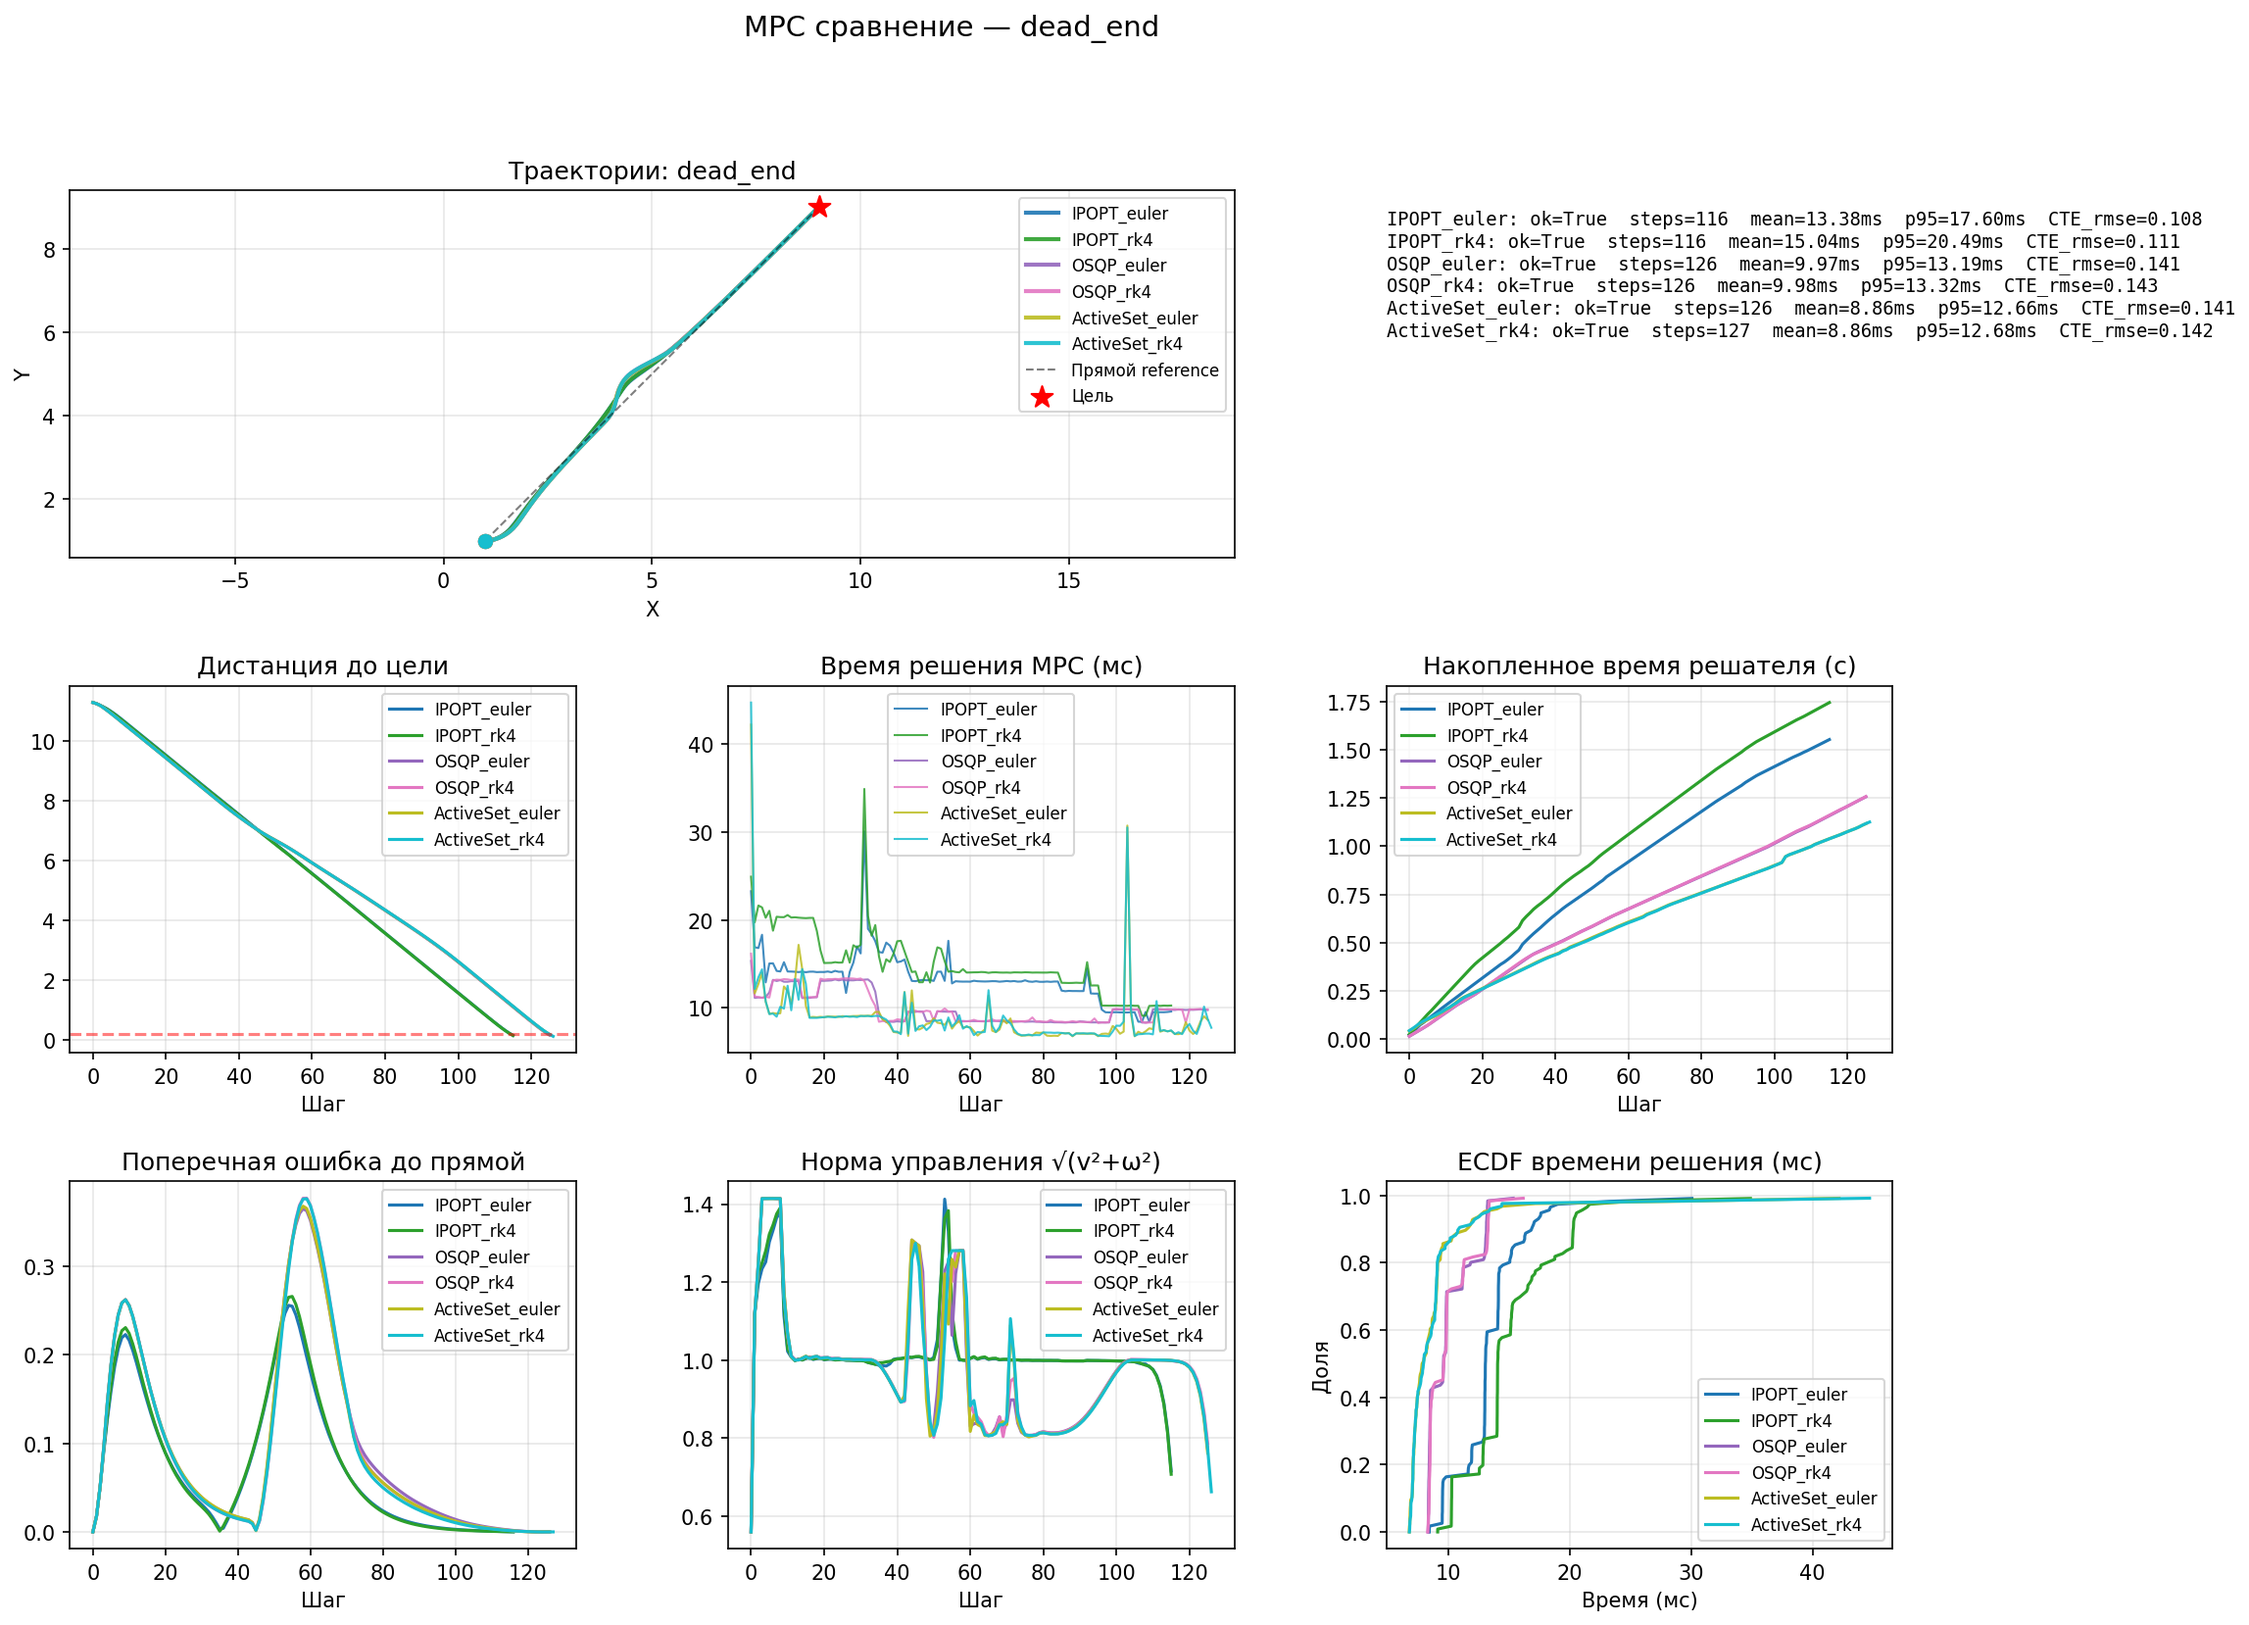
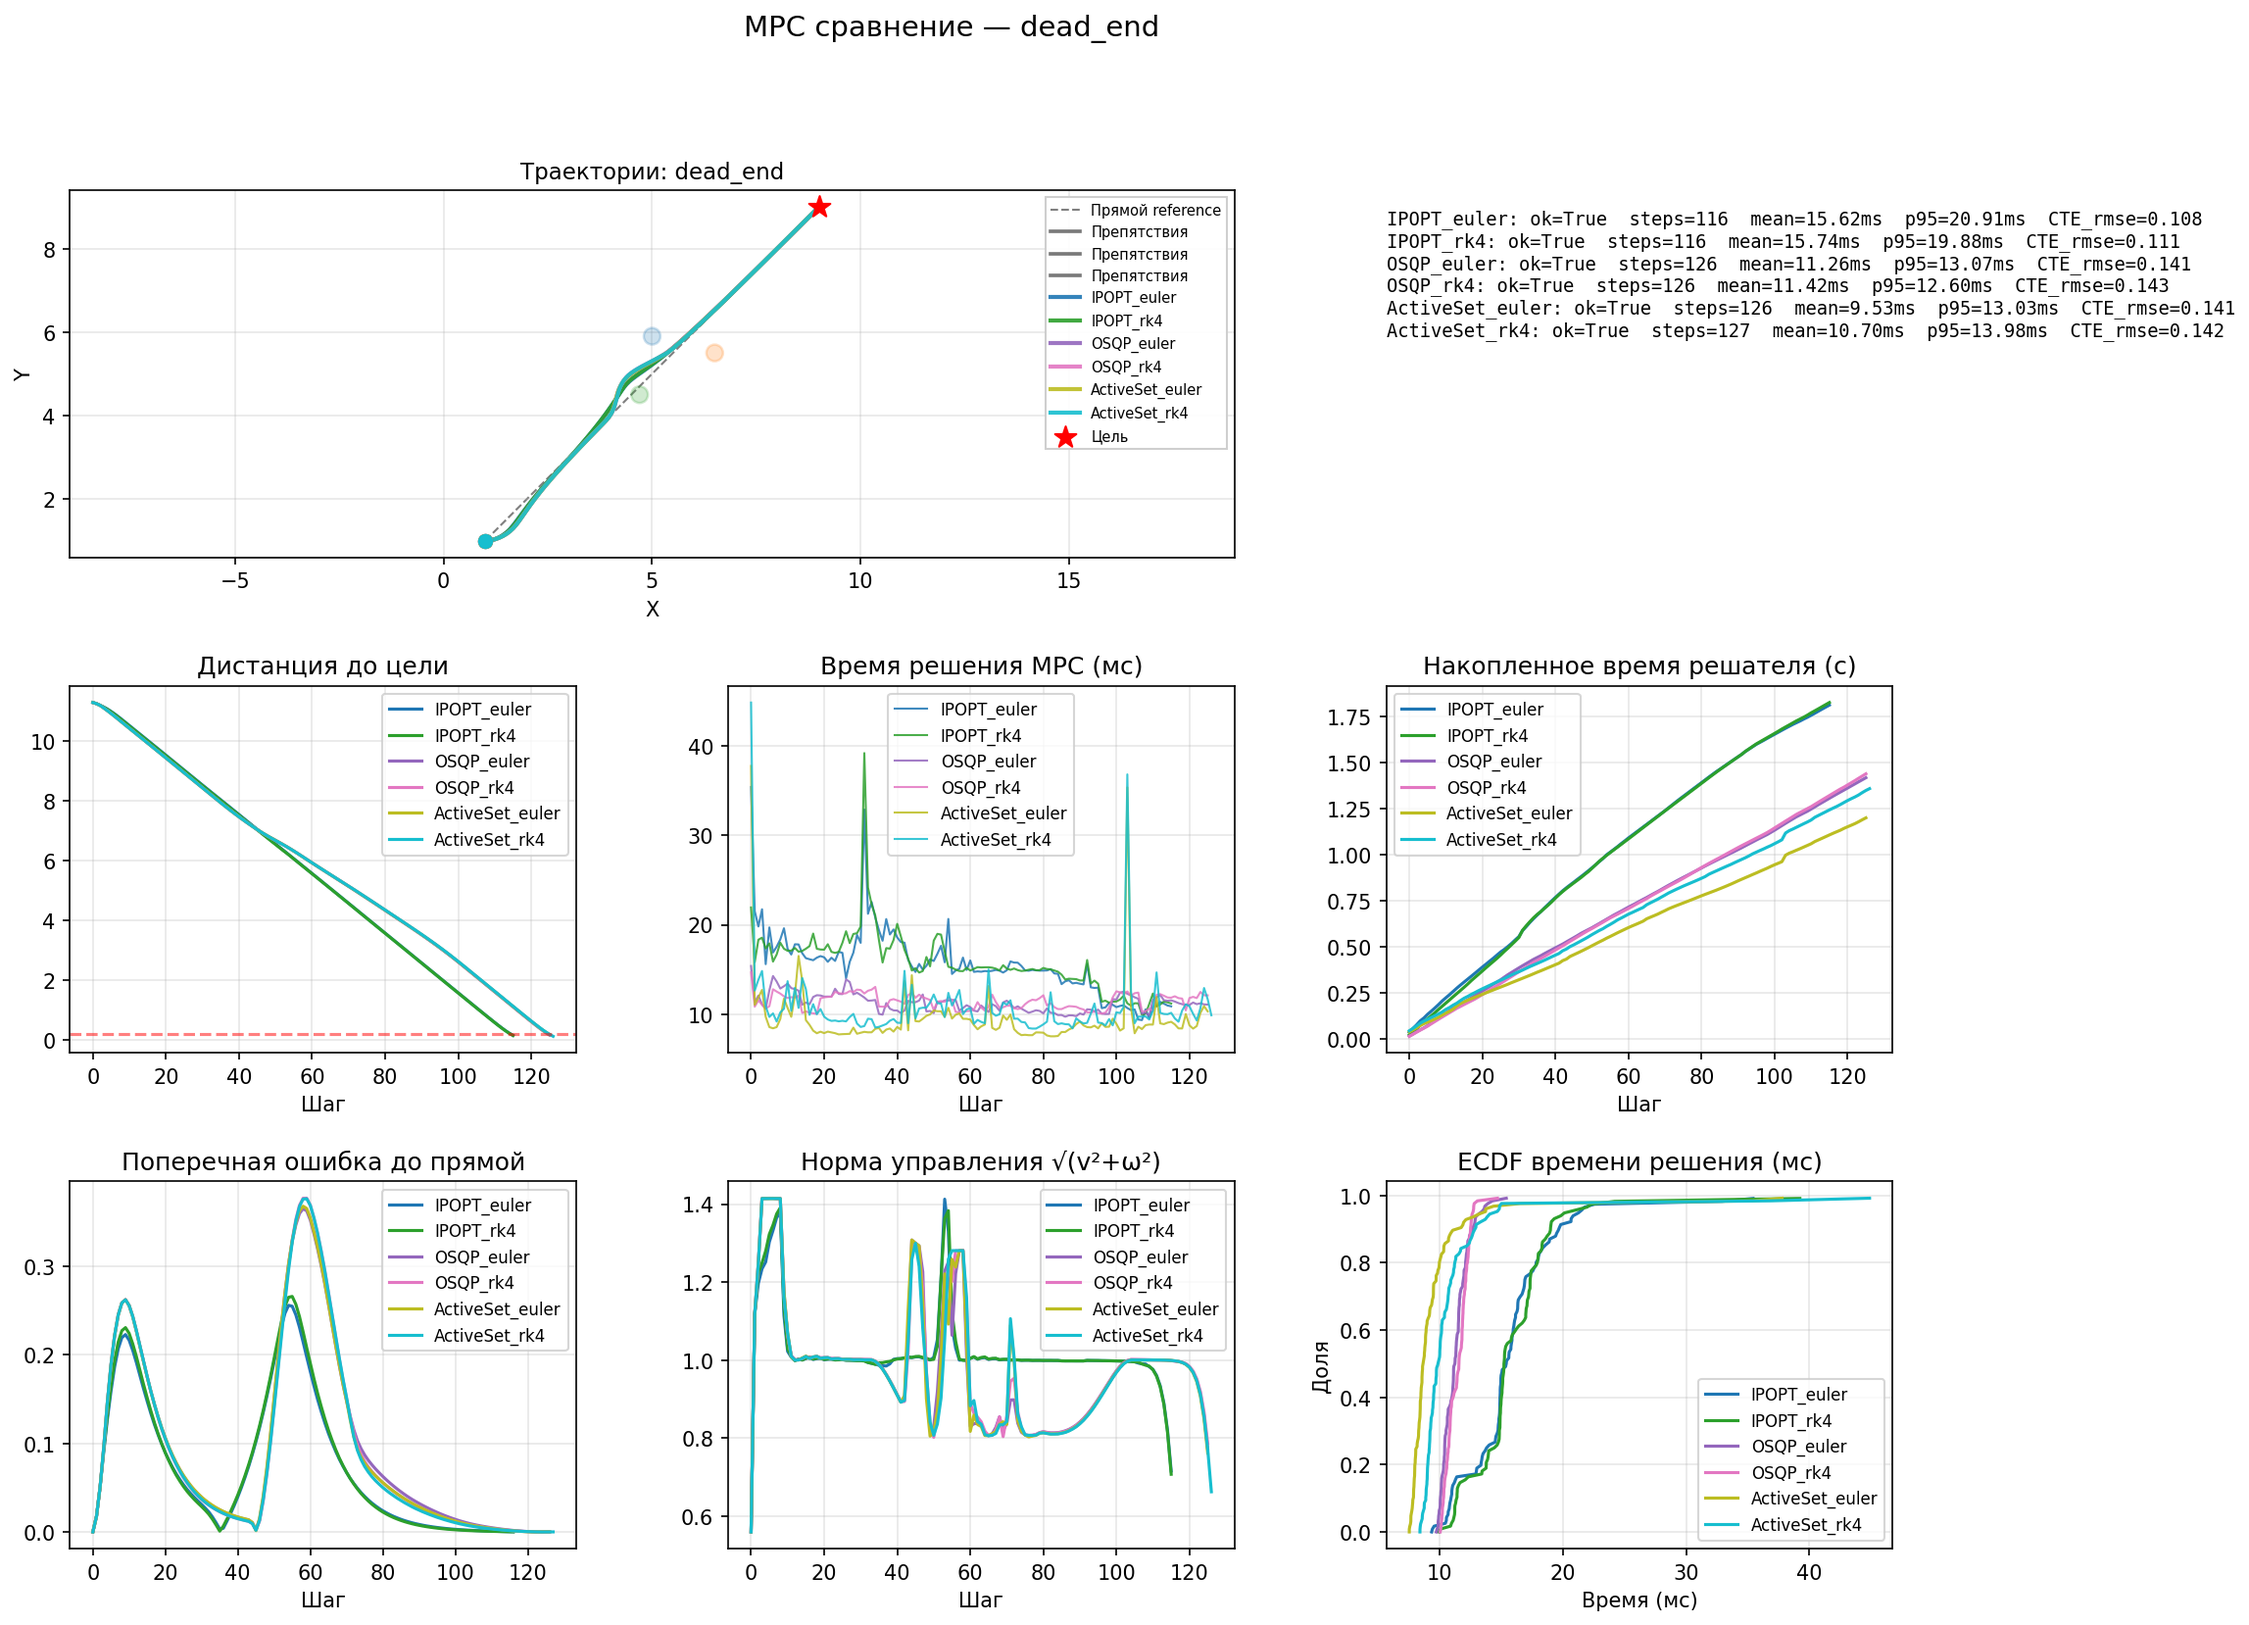
changed pictures generation code

diff --git a/benchmark_compare.py b/benchmark_compare.py
@@ -24,6 +24,7 @@ from typing import Any, Callable, Dict, List, Optional, Tuple
 
 import matplotlib.pyplot as plt
 import numpy as np
+from matplotlib.patches import Circle
 
 _ROOT = os.path.dirname(os.path.abspath(__file__))
 if _ROOT not in sys.path:
@@ -335,6 +336,92 @@ def parse_integrators_arg(s: str) -> List[str]:
     return out if out else ["euler"]
 
 
+def _longest_obstacle_history(
+    results: Dict[str, Dict[str, Any]], run_order: List[str]
+) -> Tuple[Optional[List[List[Dict[str, Any]]]], Optional[str]]:
+    """Берём историю препятствий из самого длинного эпизода (разное число шагов у солверов)."""
+    best_hist: Optional[List[List[Dict[str, Any]]]] = None
+    best_len = -1
+    best_label: Optional[str] = None
+    for name in run_order:
+        r = results[name]
+        oh = r.get("obstacle_history")
+        if not oh:
+            continue
+        ln = len(oh)
+        if ln > best_len:
+            best_len = ln
+            best_hist = oh
+            best_label = name
+    return best_hist, best_label
+
+
+def _plot_obstacle_overlays(
+    ax_xy: plt.Axes,
+    obs_hist: Optional[List[List[Dict[str, Any]]]],
+    cmap_name: str = "tab10",
+) -> None:
+    """Траектории центров кругов, стартовые диски и стрелки направления скорости (фиксированная длина)."""
+    if not obs_hist or len(obs_hist[0]) == 0:
+        return
+
+    cmap = plt.get_cmap(cmap_name)
+    n_obs = len(obs_hist[0])
+    arrow_len = 0.38
+
+    for j in range(n_obs):
+        c = cmap(j % cmap.N)
+        xs: List[float] = []
+        ys: List[float] = []
+        vxs: List[float] = []
+        vys: List[float] = []
+        for snap in obs_hist:
+            if j >= len(snap):
+                continue
+            o = snap[j]
+            px, py = float(o["position"][0]), float(o["position"][1])
+            vx, vy = float(o["velocity"][0]), float(o["velocity"][1])
+            xs.append(px)
+            ys.append(py)
+            vxs.append(vx)
+            vys.append(vy)
+        if len(xs) < 2:
+            continue
+
+        o0 = obs_hist[0][j]
+        circ = Circle(
+            (float(o0["position"][0]), float(o0["position"][1])),
+            float(o0["radius"]),
+            facecolor=c,
+            edgecolor=c,
+            linewidth=1.2,
+            alpha=0.22,
+            zorder=2,
+        )
+        ax_xy.add_patch(circ)
+
+        ax_xy.plot(xs, ys, "-", color=c, lw=1.75, alpha=0.88, zorder=3)
+
+        T = len(xs)
+        n_arrows = min(16, max(2, T // 8))
+        idxs = np.linspace(0, T - 1, num=n_arrows, dtype=int)
+        for ii in idxs:
+            vx, vy = vxs[ii], vys[ii]
+            spd = float(np.hypot(vx, vy))
+            if spd < 1e-5:
+                continue
+            dx = vx / spd * arrow_len
+            dy = vy / spd * arrow_len
+            ax_xy.annotate(
+                "",
+                xy=(xs[ii] + dx, ys[ii] + dy),
+                xytext=(xs[ii], ys[ii]),
+                arrowprops=dict(arrowstyle="-|>", color=c, lw=1.15, alpha=0.95, shrinkA=0, shrinkB=0),
+                zorder=4,
+            )
+
+        ax_xy.plot([], [], "-", color="#666666", lw=1.75, alpha=0.88, label="Препятствия")
+
 def plot_scenario_dashboard(
     scenario_name: str,
     results: Dict[str, Dict[str, Any]],
@@ -356,23 +443,39 @@ def plot_scenario_dashboard(
 
     # 1) XY траектории
     ax_xy = fig.add_subplot(gs[0, :2])
+    ref = next(iter(results.values())).get("reference_path")
+    if ref is not None:
+        ax_xy.plot(
+            ref[:, 0],
+            ref[:, 1],
+            "k--",
+            lw=1,
+            alpha=0.5,
+            label="Прямой reference",
+            zorder=1,
+        )
+
+    obs_hist, _obs_ref_lbl = _longest_obstacle_history(results, run_order)
+    _plot_obstacle_overlays(ax_xy, obs_hist)
+
     for name in run_order:
         r = results[name]
         tr = r["trajectory"]
         c = pal.get(name, "gray")
-        ax_xy.plot(tr[:, 0], tr[:, 1], "-", color=c, lw=2, label=name, alpha=0.9)
-        ax_xy.scatter(tr[0, 0], tr[0, 1], c=c, s=40, zorder=5)
-    ref = next(iter(results.values())).get("reference_path")
-    if ref is not None:
-        ax_xy.plot(ref[:, 0], ref[:, 1], "k--", lw=1, alpha=0.5, label="Прямой reference")
-    ax_xy.scatter([goal[0]], [goal[1]], c="red", s=120, marker="*", zorder=6, label="Цель")
-    ax_xy.set_title(f"Траектории: {scenario_name}")
+        ax_xy.plot(tr[:, 0], tr[:, 1], "-", color=c, lw=2, label=name, alpha=0.9, zorder=5)
+        ax_xy.scatter(tr[0, 0], tr[0, 1], c=c, s=40, zorder=6)
+    ax_xy.scatter([goal[0]], [goal[1]], c="red", s=120, marker="*", zorder=7, label="Цель")
+    ax_xy.set_title(f"Траектории: {scenario_name}", fontsize=11)
     ax_xy.set_xlabel("X")
     ax_xy.set_ylabel("Y")
     ax_xy.axis("equal")
     ax_xy.grid(True, alpha=0.3)
-    ax_xy.legend(loc="best", fontsize=8)
-
+    ax_xy.legend(
+        loc="upper right",
+        fontsize=7,
+        framealpha=0.93,
+        fancybox=False,
+    )
     # 2) Таблица скаляров
     ax_tbl = fig.add_subplot(gs[0, 2])
     ax_tbl.axis("off")

diff --git a/simulation/mpc_tracking_common.py b/simulation/mpc_tracking_common.py
@@ -172,6 +172,20 @@ def get_obstacles_from_env(env: Any) -> List[Dict[str, Any]]:
     return obstacles
 
 
+def copy_obstacle_snapshot_from_env(env: Any) -> List[Dict[str, Any]]:
+    """Глубокая копия снимка препятствий для логов визуализации (бенчмарк, GIF)."""
+    snap: List[Dict[str, Any]] = []
+    for o in get_obstacles_from_env(env):
+        snap.append(
+            {
+                "position": np.array(o["position"], dtype=float).copy(),
+                "velocity": np.array(o["velocity"], dtype=float).copy(),
+                "radius": float(o["radius"]),
+            }
+        )
+    return snap
+
+
 def build_straight_path(start: np.ndarray, goal: np.ndarray, step_size: float) -> np.ndarray:
     """Прямой глобальный путь от старта к цели (x, y, theta)."""
     path_start = np.array(start, dtype=float).copy()
@@ -273,6 +287,8 @@ def run_tracking_simulation(
     path_line = build_straight_path(state.copy(), goal, step_size=max(mpc.dt * mpc.v_max, 0.15))
     last_idx = 0
 
+    obstacle_history: List[List[Dict[str, Any]]] = [copy_obstacle_snapshot_from_env(env)]
+
     for step in range(max_steps):
         obstacles = get_obstacles_from_env(env)
         ref_traj, last_idx = generate_reference_trajectory(path_line, state, mpc.N, last_idx, obstacles)
@@ -287,6 +303,8 @@ def run_tracking_simulation(
 
         dist = float(np.linalg.norm(state[:2] - goal[:2]))
         distances.append(dist)
+
+        obstacle_history.append(copy_obstacle_snapshot_from_env(env))
 
         if render or gif_path:
             img = render_tracking_frame(
@@ -340,6 +358,7 @@ def run_tracking_simulation(
         "avg_time": float(np.mean(solve_times)) if solve_times else 0.0,
         "final_dist": distances[-1] if distances else float(np.inf),
         "gif_path": saved_gif,
+        "obstacle_history": obstacle_history,
     }
 
 

diff --git a/MPC/__init__.py b/MPC/__init__.py
@@ -7,7 +7,7 @@
 """
 
 from .unicycle_mpc_active_set_tracking import UnicycleMPC_ActiveSet_Tracking
-from .unicycle_mpc_ipopt import UnicycleMPC
+from .unicycle_mpc_ipopt_tracking import UnicycleMPC_Tracking
 from .unicycle_mpc_osqp_tracking import UnicycleMPC_OSQP_Tracking
 
 __all__ = [
